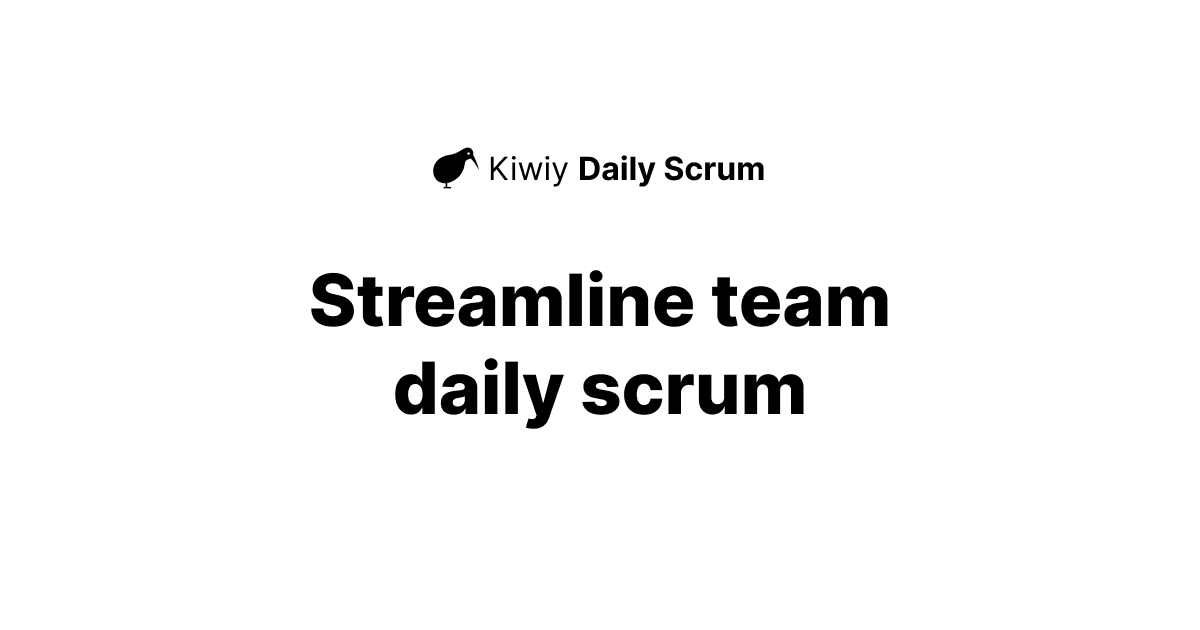
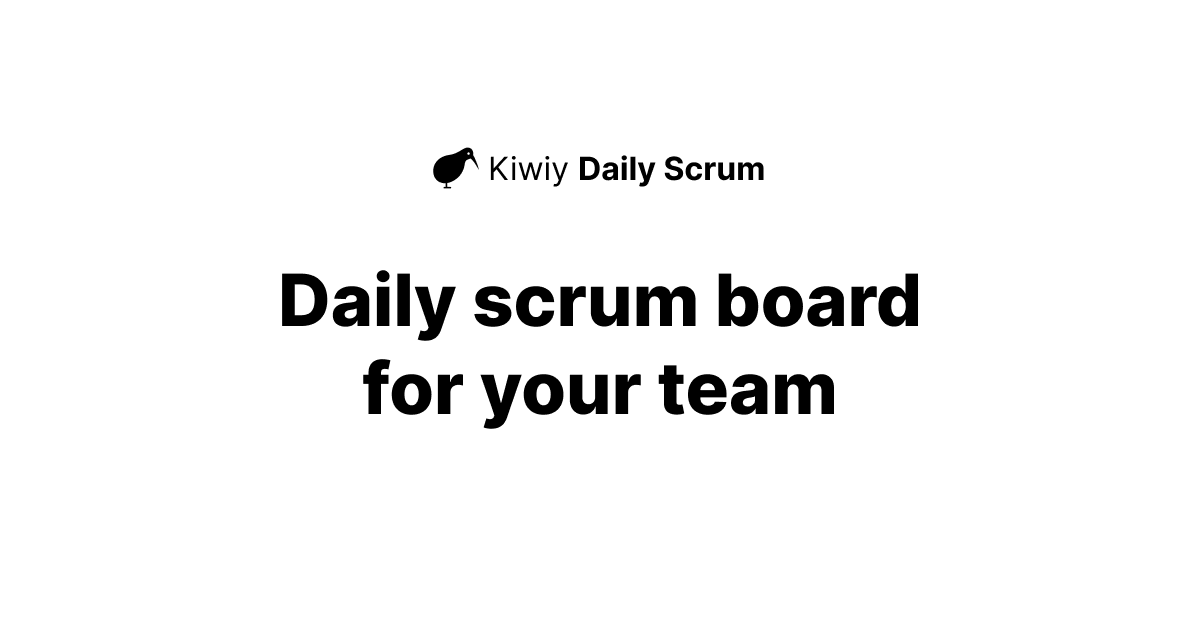
Fix og image url #162

Changed region(s): [[0.2158, 0.4222, 0.7708, 0.5429], [0.3083, 0.573, 0.7092, 0.6937]]

diff --git a/apps/website/src/app/layout.tsx b/apps/website/src/app/layout.tsx
@@ -6,14 +6,30 @@ import { cn } from "ui";
 
 const inter = Inter({ subsets: ["latin"] });
 
+const metadataTitle =
+  "Kiwiy Daily Scrum | Minimalist daily scrum board for your team";
+
 const metadataDescription =
-  "Simplify your daily scrum with Kiwiy Daily Scrum, a free, open-source board for agile teams. Share updates in seconds and track your team's status effortlessly. No more copying and pasting templates in Slack. Focus on delivering value.";
+  "A free minimalist daily scrum board for your team. Share updates in seconds and keep your team in sync with a centralized, real-time board view. Easily invite team members, add daily updates, and use the board during meetings. Enjoy all features for free.";
 
 export const metadata: Metadata = {
-  title: "Kiwiy Daily Scrum",
+  title: metadataTitle,
   description: metadataDescription,
+  keywords: [
+    "daily scrum board",
+    "daily updates",
+    "team updates",
+    "team productivity",
+    "real-time board",
+    "team collaboration",
+    "open-source",
+    "daily scrum questions",
+    "dedicated workspace",
+    "Kiwiy Daily Scrum",
+  ],
+  metadataBase: new URL(process.env.NEXT_PUBLIC_METADATA_BASE_URL!),
   openGraph: {
-    title: "Kiwiy Daily Scrum - A board to streamline team daily scrum",
+    title: metadataTitle,
     description: metadataDescription,
     url: "https://dailyscrum.kiwiy.is",
     siteName: "Kiwiy Daily Scrum",
